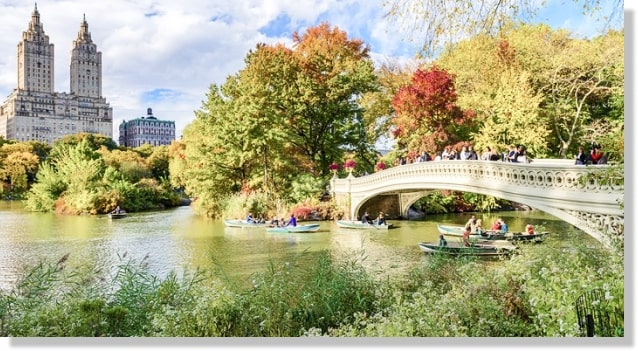
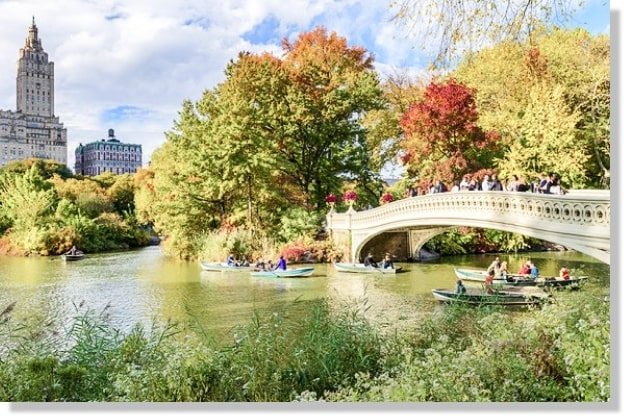
21

diff --git a/vite-project/style.css b/vite-project/style.css
@@ -145,18 +145,18 @@ body {
   align-items: center;
 }
 .card {
-  margin-bottom: 1rem;
+  margin-bottom: 10rem;
   border: 0.25rem solid #cccccc;
   border-radius: 1rem;
   overflow: hidden;
   background: #ffffff;
-  box-shadow: 0.25rem 0.25rem 1rem 0.25rem #cccccc;
+  box-shadow: 0.5rem 0.5rem 0.5rem 0.5rem #cccccc;
   /*   transition: 0.3s; */
 }
 .featured-image-container .card {
   padding: 1rem;
   height: 0;
-  padding-bottom: calc(69%);
+  padding-bottom: calc(66.5%);
 }
 h2.heading_large {
   font-size: 3rem;
@@ -177,4 +177,7 @@ img {
 }
 .description {
   font-size: 1.5rem;
+}
+.ipsGrid_span7 {
+  margin-bottom: 10rem;
 }
